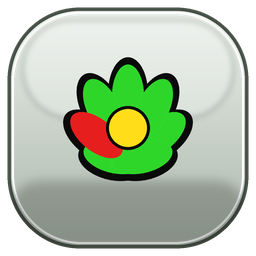
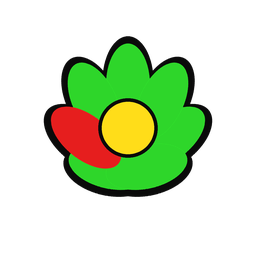
Remove fundo de botao dos icones ICQ/DOOM/DIGGER, deixa so o glifo com contorno preto (bump v3)

diff --git a/index.html b/index.html
@@ -2331,7 +2331,7 @@
       <span class="y2k-icon-glyph">📖</span><span class="y2k-icon-label">Livro de Visitas</span>
     </button>
     <button class="y2k-icon" data-y2k-action="contato" title="Sugestão / Parceria">
-      <span class="y2k-icon-glyph"><img src="icq-icon.png?v=2" alt="" width="34" height="34" decoding="async" style="width:100%;height:100%;object-fit:contain;"></span><span class="y2k-icon-label">ICQ</span>
+      <span class="y2k-icon-glyph"><img src="icq-icon.png?v=3" alt="" width="34" height="34" decoding="async" style="width:100%;height:100%;object-fit:contain;"></span><span class="y2k-icon-label">ICQ</span>
     </button>
     <button class="y2k-icon" data-y2k-action="destaques" title="Destaques da Coleção">
       <span class="y2k-icon-glyph">📽</span><span class="y2k-icon-label">destaques.pptx</span>
@@ -2340,10 +2340,10 @@
       <span class="y2k-icon-glyph">📗</span><span class="y2k-icon-label">resumo.xlsx</span>
     </button>
     <button class="y2k-icon" data-y2k-action="doom" title="DOOM (shareware oficial, id Software)">
-      <span class="y2k-icon-glyph"><img src="doom-icon.png?v=2" alt="" width="34" height="34" decoding="async" style="width:100%;height:100%;object-fit:contain;"></span><span class="y2k-icon-label">DOOM.EXE</span>
+      <span class="y2k-icon-glyph"><img src="doom-icon.png?v=3" alt="" width="34" height="34" decoding="async" style="width:100%;height:100%;object-fit:contain;"></span><span class="y2k-icon-label">DOOM.EXE</span>
     </button>
     <button class="y2k-icon" data-y2k-action="digger" title="Digger (1983, domínio público)">
-      <span class="y2k-icon-glyph"><img src="digger-icon.png?v=2" alt="" width="34" height="34" decoding="async" style="width:100%;height:100%;object-fit:contain;"></span><span class="y2k-icon-label">DIGGER.EXE</span>
+      <span class="y2k-icon-glyph"><img src="digger-icon.png?v=3" alt="" width="34" height="34" decoding="async" style="width:100%;height:100%;object-fit:contain;"></span><span class="y2k-icon-label">DIGGER.EXE</span>
     </button>
   </div>
 
